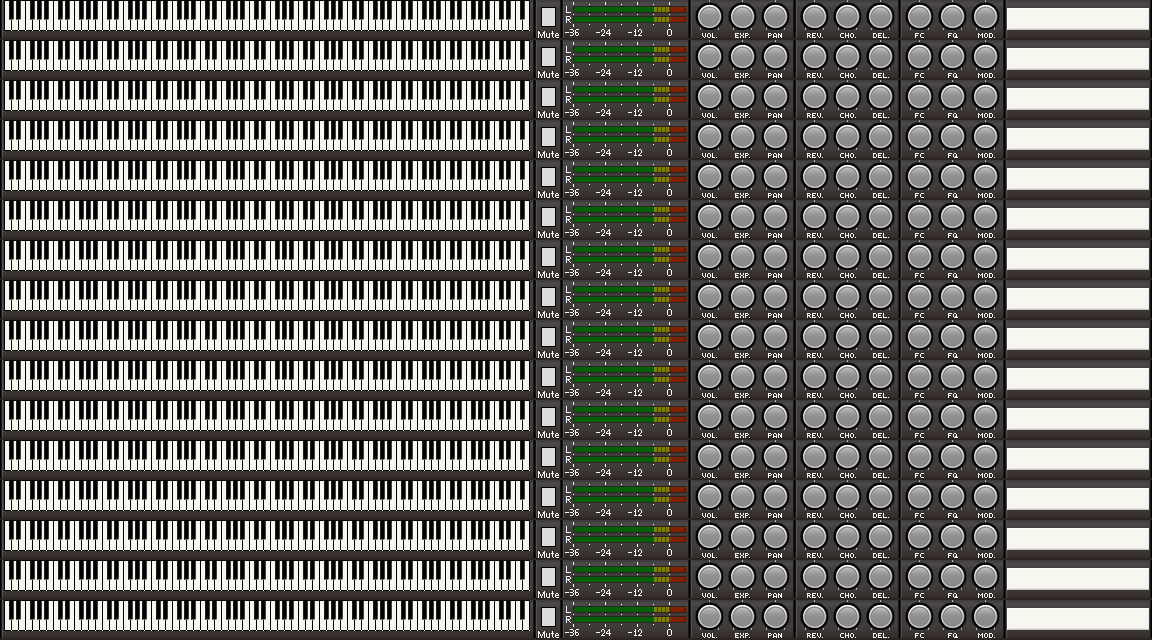
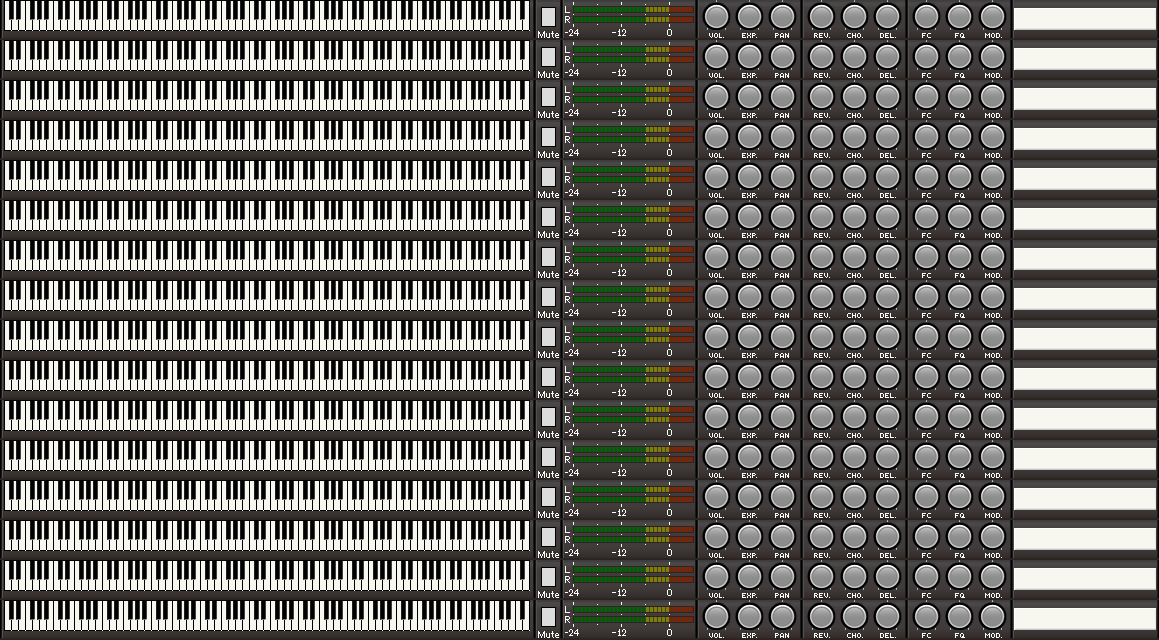
更新

diff --git a/EasySequencer/Player/Keyboard.cs b/EasySequencer/Player/Keyboard.cs
@@ -39,12 +39,12 @@ namespace Player {
         private static readonly float KnobRadius = 11.0f;
 
         private static readonly Rectangle MuteButton = new Rectangle(542, 8, 13, 18);
-        private static readonly Rectangle InstName = new Rectangle(1007, 10, 146, 19);
+        private static readonly Rectangle InstName = new Rectangle(1014, 10, 146, 19);
 
-        private static readonly Rectangle MeterPosL = new Rectangle(574, 7, 112, 5);
-        private static readonly Rectangle MeterPosR = new Rectangle(574, 17, 112, 5);
+        private static readonly Rectangle MeterPosL = new Rectangle(574, 7, 120, 5);
+        private static readonly Rectangle MeterPosR = new Rectangle(574, 17, 120, 5);
         private static readonly Size MeterCell = new Size(4, 5);
-        private static double MeterMin = -36.0;
+        private static double MeterMin = -24.0;
         private static double MeterMax = 6.0;
 
         private static readonly Rectangle[] KeyboardPos = {
@@ -65,27 +65,27 @@ namespace Player {
         private static readonly int OctWidth = (KeyboardPos[0].Width + 1) * 7;
 
         private static readonly Point[] KnobPos = {
-            new Point(709, 16), // Vol.
-            new Point(742, 16), // Exp.
-            new Point(775, 16), // Pan.
-            new Point(814, 16), // Rev.
-            new Point(847, 16), // Cho.
-            new Point(880, 16), // Del.
-            new Point(919, 16), // Fc
-            new Point(952, 16), // Q
-            new Point(985, 16)  // Mod.
+            new Point(716, 16), // Vol.
+            new Point(749, 16), // Exp.
+            new Point(782, 16), // Pan.
+            new Point(821, 16), // Rev.
+            new Point(854, 16), // Cho.
+            new Point(887, 16), // Del.
+            new Point(926, 16), // Fc
+            new Point(959, 16), // Q
+            new Point(992, 16)  // Mod.
         };
 
         private static readonly Point[] KnobValPos = {
-            new Point(699, 11), // Vol.
-            new Point(732, 11), // Exp.
-            new Point(765, 11), // Pan.
-            new Point(804, 11), // Rev.
-            new Point(837, 11), // Cho.
-            new Point(870, 11), // Del.
-            new Point(909, 11), // Fc
-            new Point(942, 11), // Q
-            new Point(975, 11)  // Mod.
+            new Point(706, 11), // Vol.
+            new Point(739, 11), // Exp.
+            new Point(772, 11), // Pan.
+            new Point(811, 11), // Rev.
+            new Point(844, 11), // Cho.
+            new Point(877, 11), // Del.
+            new Point(916, 11), // Fc
+            new Point(949, 11), // Q
+            new Point(982, 11)  // Mod.
         };
 
         private static readonly PointF[] Knob = {
